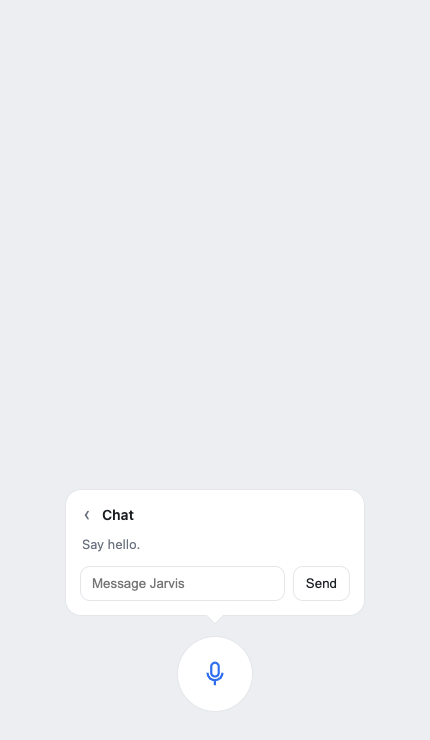
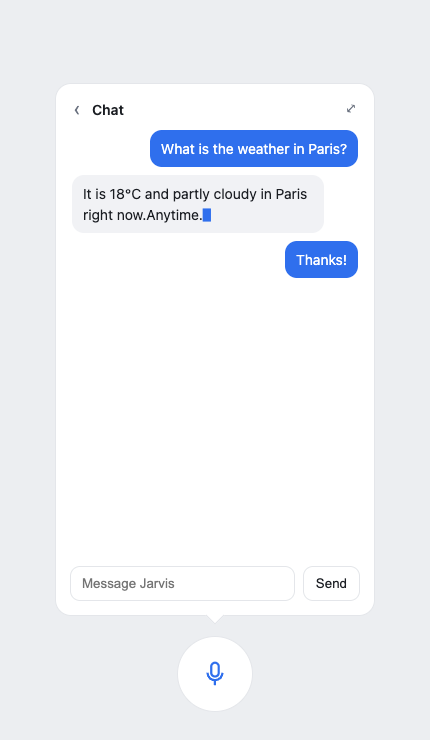
feat(ui): visible transcript + full-screen chat; Electron auto-starts backend
- chat view is a real transcript (user/assistant bubbles) with a full-screen toggle
- Electron starts the local backend if it isn't running (models stay warm),
  without tying the service lifetime to the window
- refreshed design screenshot (full-screen chat)

diff --git a/apps/desktop/main.js b/apps/desktop/main.js
@@ -1,29 +1,67 @@
-// Jarvis desktop shell.
+// Local-Live-1 desktop shell.
 //
-// This is a CLIENT. It loads the UI served by the Jarvis backend and adds a
-// window/tray. It does not own voice, models, or tools, and its lifetime is
-// independent of the backend: closing the window (or quitting the app) must not
-// stop remote browser sessions. The backend runs separately on the host.
-//
-// Point it somewhere with JARVIS_URL, e.g. the Tailscale HTTPS URL, or leave the
-// default for a locally running `jarvis serve`.
+// This is a CLIENT. It loads the UI served by the local backend and adds a
+// window/tray. It does not own voice, models, or tools. If the backend isn't
+// running (and the URL is local), it starts it once and leaves it running
+// detached — closing the window must NOT stop the service or remote sessions.
 const { app, BrowserWindow, Tray, Menu, shell, nativeImage, systemPreferences } = require("electron");
+const { spawn } = require("child_process");
+const http = require("http");
 const path = require("path");
+const fs = require("fs");
 
 const JARVIS_URL = process.env.JARVIS_URL || "http://127.0.0.1:8766";
+const REPO_ROOT = path.resolve(__dirname, "..", "..");
 
 let win = null;
 let tray = null;
 let quitting = false;
 
+function reachable(url, timeoutMs = 1500) {
+  return new Promise((resolve) => {
+    try {
+      const u = new URL(url.replace(/^ws/, "http") + "/health");
+      const req = http.get({ hostname: u.hostname, port: u.port, path: u.pathname, timeout: timeoutMs }, (res) => {
+        res.resume();
+        resolve(res.statusCode === 200);
+      });
+      req.on("timeout", () => req.destroy());
+      req.on("error", () => resolve(false));
+    } catch {
+      resolve(false);
+    }
+  });
+}
+
+// Start the backend if it's local and not already running, so models are warm.
+async function ensureBackend() {
+  const m = JARVIS_URL.match(/^https?:\/\/(127\.0\.0\.1|localhost):(\d+)/);
+  if (!m) return; // remote host: don't manage its lifecycle
+  if (await reachable(JARVIS_URL)) return;
+  const port = m[2];
+  const py = path.join(REPO_ROOT, ".venv", "bin", "python");
+  const cmd = fs.existsSync(py) ? py : "python3";
+  const child = spawn(
+    cmd,
+    ["-m", "jarvis", "serve", "--host", "127.0.0.1", "--port", port, "--http", "--no-open"],
+    { cwd: REPO_ROOT, detached: true, stdio: "ignore" }
+  );
+  child.unref();
+  const deadline = Date.now() + 120000;
+  while (Date.now() < deadline) {
+    if (await reachable(JARVIS_URL)) return;
+    await new Promise((r) => setTimeout(r, 1500));
+  }
+}
+
 function createWindow() {
   win = new BrowserWindow({
-    width: 420,
-    height: 660,
-    minWidth: 320,
-    minHeight: 420,
+    width: 460,
+    height: 720,
+    minWidth: 340,
+    minHeight: 460,
     show: false,
-    title: "Jarvis",
+    title: "Local-Live-1",
     backgroundColor: "#111315",
     webPreferences: {
       preload: path.join(__dirname, "preload.js"),
@@ -37,15 +75,15 @@ function createWindow() {
       "data:text/html," +
         encodeURIComponent(
           `<body style="font:14px system-ui;padding:24px;background:#111315;color:#e8eaed">` +
-            `<h3>Can't reach Jarvis</h3><p>No backend at <code>${JARVIS_URL}</code>.</p>` +
-            `<p>Start it on the host with <code>jarvis serve</code>, or set <code>JARVIS_URL</code>.</p></body>`
+            `<h3>Can't reach Local-Live-1</h3><p>No backend at <code>${JARVIS_URL}</code>.</p>` +
+            `<p>Start it with <code>uv run python -m jarvis serve</code>, or set <code>JARVIS_URL</code>.</p></body>`
         )
     );
   });
 
   win.once("ready-to-show", () => win.show());
 
-  // Closing the window hides to the tray; the backend keeps serving.
+  // Closing the window hides to the tray; the backend keeps serving remotely.
   win.on("close", (e) => {
     if (!quitting) {
       e.preventDefault();
@@ -68,8 +106,7 @@ function showWindow() {
 }
 
 function createTray() {
-  // A 1px placeholder avoids a missing-icon crash; ship a real icon in packaging.
-  const icon = nativeImage.createEmpty();
+  const icon = nativeImage.createEmpty(); // ship a real icon in packaging
   try {
     tray = new Tray(icon);
     tray.setToolTip("Local-Live-1");
@@ -88,8 +125,7 @@ function createTray() {
 }
 
 app.whenReady().then(async () => {
-  // Ask macOS for microphone access up front so getUserMedia in the UI doesn't
-  // silently fail. Denied access is surfaced by the page itself.
+  // Ask macOS for microphone access up front so getUserMedia doesn't silently fail.
   if (process.platform === "darwin") {
     try {
       await systemPreferences.askForMediaAccess("microphone");
@@ -97,6 +133,7 @@ app.whenReady().then(async () => {
       // Older Electron / unsupported platform: ignore.
     }
   }
+  await ensureBackend();
   createWindow();
   createTray();
   app.on("activate", showWindow);

diff --git a/src/jarvis/web/page.py b/src/jarvis/web/page.py
@@ -38,14 +38,17 @@ INDEX_HTML = r"""<!doctype html>
   @keyframes breathe{ 50%{ opacity:.35; } }
 
   .pop{ position:absolute; bottom:96px; left:50%; transform:translateX(-50%);
+        display:flex; flex-direction:column; max-height:min(82vh,760px);
         background:var(--card); border:1px solid var(--line); border-radius:16px; padding:14px;
-        width:300px; max-width:calc(100vw - 32px); }
+        width:320px; max-width:calc(100vw - 32px); }
+  #app[data-view="chat"] .pop{ height:min(72vh,640px); }
+  #app[data-full="true"] .pop{ width:min(780px,94vw); height:min(88vh,860px); }
   .pop[hidden]{ display:none; }
   .pop::after{ content:""; position:absolute; bottom:-7px; left:50%; transform:translateX(-50%) rotate(45deg);
         width:12px; height:12px; background:var(--card); border-right:1px solid var(--line); border-bottom:1px solid var(--line); }
   .view{ display:none; }
   #app[data-view="menu"] .view-menu{ display:flex; flex-direction:column; gap:4px; }
-  #app[data-view="chat"] .view-chat{ display:flex; flex-direction:column; }
+  #app[data-view="chat"] .view-chat{ display:flex; flex-direction:column; flex:1; min-height:0; }
   #app[data-view="input"] .view-input{ display:block; }
   #app[data-view="settings"] .view-settings{ display:flex; flex-direction:column; gap:9px; }
 
@@ -57,7 +60,7 @@ INDEX_HTML = r"""<!doctype html>
   .vhead{ display:flex; align-items:center; gap:8px; margin-bottom:8px; font-weight:600; font-size:14px; }
   .vhead button{ border:0; background:transparent; color:var(--muted); cursor:pointer; font-size:18px; padding:0 4px; }
 
-  .log{ display:flex; flex-direction:column; gap:8px; max-height:44vh; overflow-y:auto; padding:2px; }
+  .log{ display:flex; flex-direction:column; gap:8px; flex:1; min-height:0; overflow-y:auto; padding:2px; }
   .log:empty::before{ content:"Say hello."; color:var(--muted); font-size:13px; }
   .msg{ max-width:88%; padding:8px 11px; border-radius:12px; white-space:pre-wrap; word-break:break-word; font-size:14px; }
   .user{ align-self:flex-end; background:var(--user); color:#fff; }
@@ -92,7 +95,7 @@ INDEX_HTML = r"""<!doctype html>
     </nav>
 
     <section class="view view-chat">
-      <div class="vhead"><button data-nav="menu">&#8249;</button><span>Chat</span></div>
+      <div class="vhead"><button data-nav="menu">&#8249;</button><span>Chat</span><button id="btn-full" title="Full screen" style="margin-left:auto">&#10530;</button></div>
       <div class="log" id="log"></div>
       <form class="composer" id="composer" autocomplete="off"><input id="text" type="text" placeholder="Message Jarvis" /><button type="submit">Send</button></form>
     </section>
@@ -135,7 +138,7 @@ let spoke=false,silenceMs=0,awaitingFinal=false;
 let audioQueue=[],playing=false,currentAudio=null;
 
 function state(s){ app.dataset.state=s; statusEl.textContent=LABELS[s]||s; const c=document.getElementById('caption'); if(c) c.textContent=LABELS[s]||s; }
-function view(v){ app.dataset.view=v; pop.hidden=(v==='none'); if(v==='input') quicktext.focus(); }
+function view(v){ app.dataset.view=v; pop.hidden=(v==='none'); if(v!=='chat') app.dataset.full='false'; if(v==='input') quicktext.focus(); }
 function el(c){const d=document.createElement('div');d.className='msg '+c;return d;}
 function notice(t){ if(app.dataset.view==='none') view('chat'); const d=el('bot'); d.textContent=t; log.appendChild(d); log.scrollTop=log.scrollHeight; }
 function addUser(t){const d=el('user');d.textContent=t;log.appendChild(d);log.scrollTop=log.scrollHeight;return d;}
@@ -188,6 +191,7 @@ function stopMic(){ streaming=false; if(ws){ try{ws.send(JSON.stringify({type:'r
 
 micBtn.onclick=()=>{ streaming?stopMic():startMic(); };
 document.querySelectorAll('[data-nav]').forEach(b=>b.onclick=()=>{ view(b.dataset.nav); if(b.dataset.nav==='settings') loadSettings(); });
+document.getElementById('btn-full').onclick=()=>{ app.dataset.full = app.dataset.full==='true'?'false':'true'; };
 composer.onsubmit=e=>{ e.preventDefault(); const t=input.value; input.value=''; sendText(t); };
 quickform.onsubmit=e=>{ e.preventDefault(); const t=quicktext.value; quicktext.value=''; sendText(t); };
 document.addEventListener('keydown',e=>{ if(e.key==='Escape') view('none'); });
